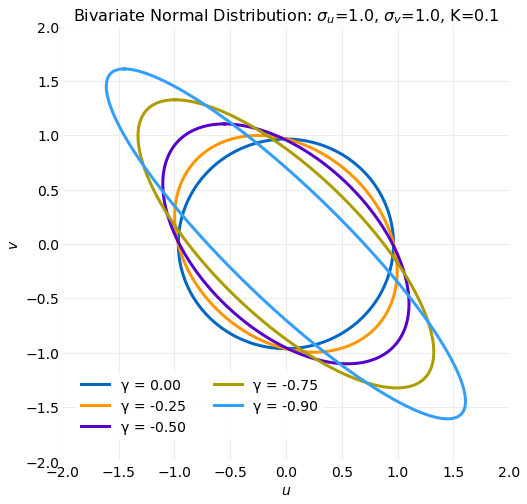
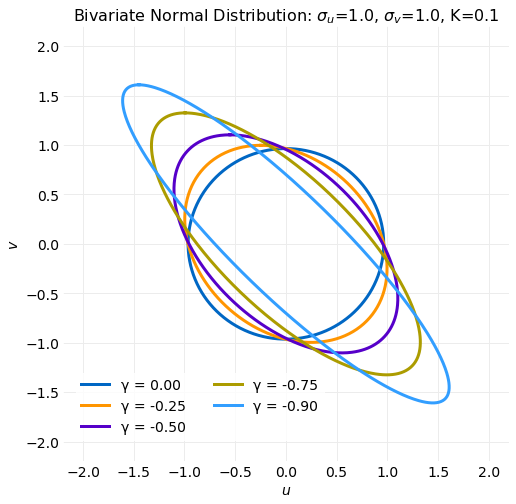
plot updates

diff --git a/hydrogen_notebooks/distributions/bivariate_normal_distribution.py b/hydrogen_notebooks/distributions/bivariate_normal_distribution.py
@@ -312,8 +312,8 @@ def contour_plot_correlation_scan(μ1, μ2, σ1, σ2, γ, contour_value, legend,
     axis.set_xlabel(r"$u$")
     axis.set_ylabel(r"$v$")
     σ = numpy.amax([σ1, σ2])
-    axis.set_xlim([-2.0*σ, 2.0*σ])
-    axis.set_ylim([-2.0*σ, 2.0*σ])
+    axis.set_xlim([-2.2*σ, 2.2*σ])
+    axis.set_ylim([-2.2*σ, 2.2*σ])
     title = f"Bivariate Normal Distribution: " + \
              r"$σ_u$=" + f"{format(σ1, '2.1f')}, " + r"$σ_v$=" + \
              f"{format(σ2, '2.1f')}, K={format(contour_value, '2.1f')}"
